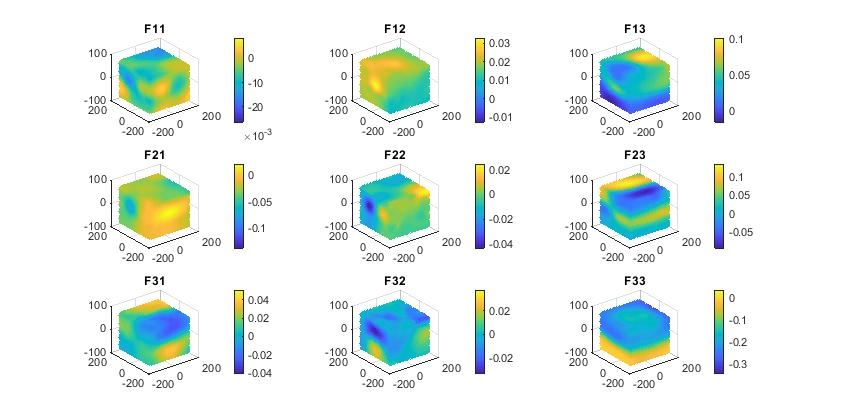
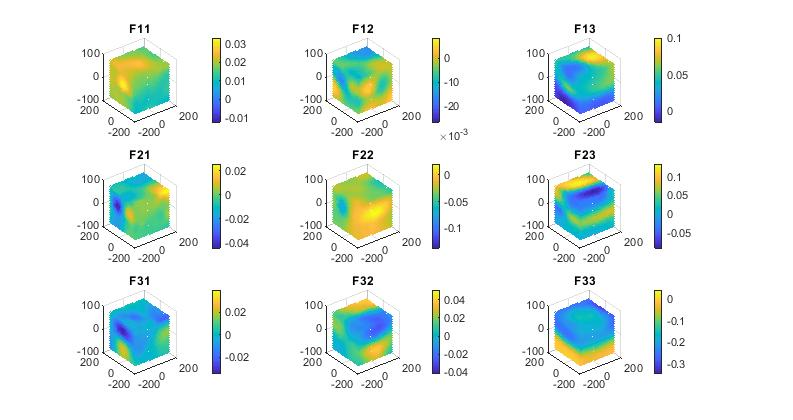
Add files via upload

diff --git a/plotCone3.m b/plotCone3.m
@@ -8,9 +8,15 @@ figure, ps=p_sim_pw; %ps(:,1)=ps(:,1)+u3_sim(:,1); ps(:,2)=ps(:,2)+u3_sim(:,2); 
 u_mag = sqrt(u3_sim(:,1).^2 + u3_sim(:,2).^2 + u3_sim(:,3).^2); Umag_max = max(u_mag);
  %plot3(ps(:,1)+u(:,1),ps(:,2)+u(:,2),ps(:,3)+u(:,3),'k.'); hold on;
 hc = coneplot(ps(:,1),ps(:,2),ps(:,3),u3_sim(:,1),u3_sim(:,2),u3_sim(:,3),0.04,'nointerp'); 
-colormap jet; caxis([0,Umag_max]); fvc = repmat(u_mag(:)',[42 1]);
+  caxis([0,Umag_max]); fvc = repmat(u_mag(:)',[42 1]);
 set(hc, 'facecolor', 'flat', 'facevertexcdata', fvc(:));
 hc.EdgeColor = 'none'; hc.AmbientStrength = 0.6; hc.DiffuseStrength = 0.75;  
-hc.SpecularStrength = 0.4; hc.SpecularExponent = 3; h_color = colorbar;
-set(h_color, 'ylim', [0, Umag_max]); axis off; lighting phong;
+hc.SpecularStrength = 0.4; hc.SpecularExponent = 3; 
+h_color = colorbar; set(h_color, 'ylim', [0, Umag_max]); set(h_color,'fontsize',14);
+
+lighting phong;
 title('Displacement (Unit: um)')
+
+view([60,30]); set(gca,'fontsize',14);  axis on; 
+ylabel('y (um)'); xlabel('x (um)'); zlabel('z (um)');  
+ grid minor; grid on; set(gcf,'color','w');

diff --git a/main_test_funScatter2Grid3D_grad.m b/main_test_funScatter2Grid3D_grad.m
@@ -12,6 +12,7 @@
 clear all; close all; clc;
 
 %% Interpolate scattered data to regular griddata
+% load('testData.mat');
 load('testData.mat');
 % p_meas: coordinates of scattered data
 % u_sim_pw_meas: measured displacements of scattered data
@@ -34,8 +35,8 @@ figure, quiver3(xGrid,yGrid,zGrid,u3x_meas_Grid,u3y_meas_Grid,u3z_meas_Grid)
 plotCone3(xGrid,yGrid,zGrid,u3x_meas_Grid,u3y_meas_Grid,u3z_meas_Grid); view([-60,30])
 
 % ----- Streamline plot ----
-[xGridsl,yGridsl,zGridsl] = meshgrid(xGrid(1):76:xGrid(end), yGrid(1):76:yGrid(end), [zGrid(1),0,zGrid(end)]);
-plotStreamline3(xGrid,yGrid,zGrid,u3x_meas_Grid,u3y_meas_Grid,u3z_meas_Grid,xGridsl,yGridsl,zGridsl)
+[yGridsl,xGridsl,zGridsl] = meshgrid(yGrid(1):76:yGrid(end), xGrid(1):76:xGrid(end), [zGrid(1),0,zGrid(end)]);
+plotStreamline3(yGrid,xGrid,zGrid,u3x_meas_Grid,u3y_meas_Grid,u3z_meas_Grid,yGridsl,xGridsl,zGridsl)
 
  
 
